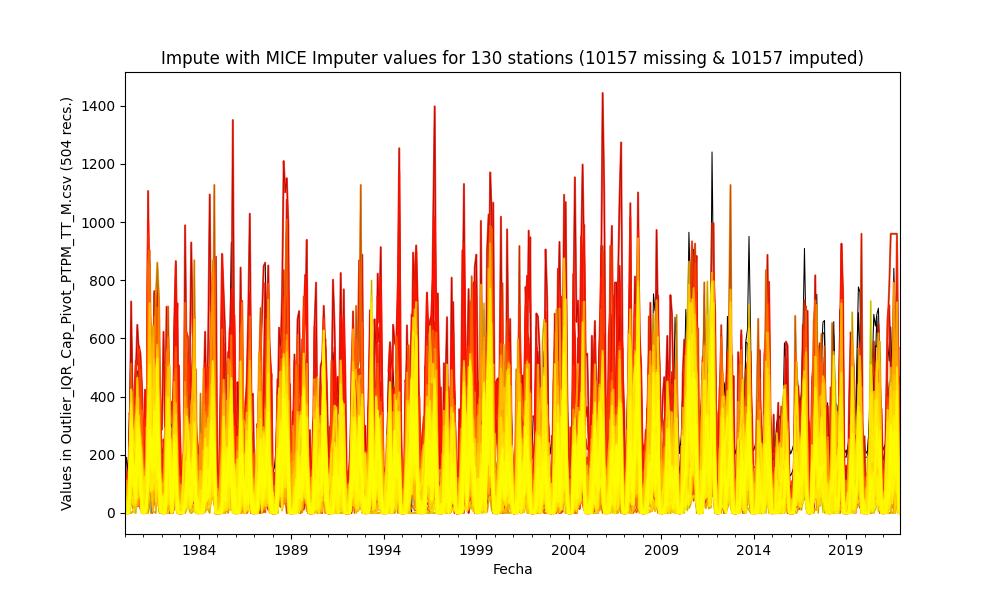
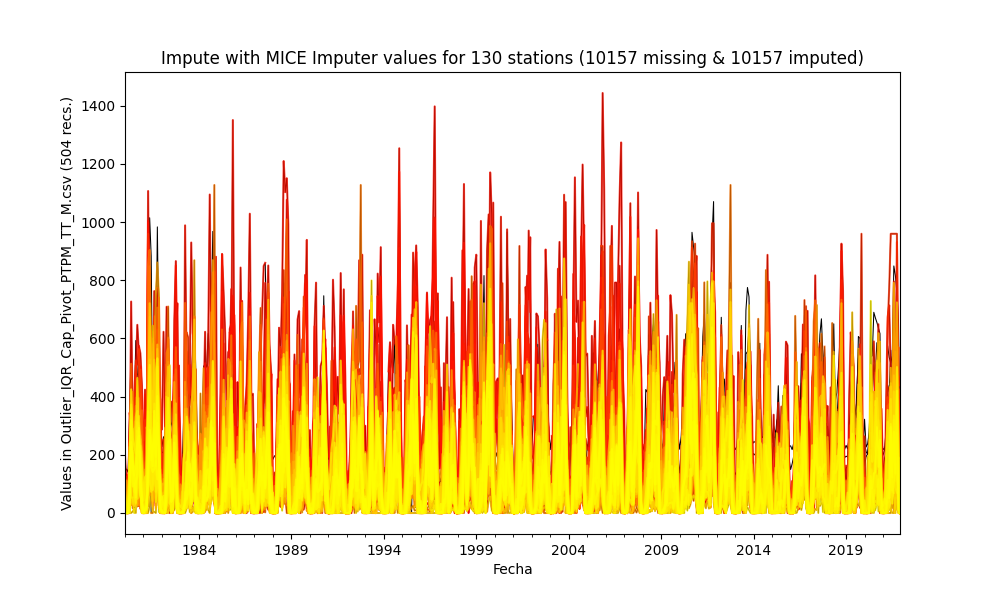
General update.

diff --git a/.src/Impute.py b/.src/Impute.py
@@ -212,7 +212,7 @@ df_isnull = pd.DataFrame(df_impute.isnull().sum(), columns=['Nulls'])
 total_imputed = total_nulls - df_isnull['Nulls'].sum()
 print_log('\n\n### Method 7 - Impute missing values with Natural Neigborns - KNN = %d Imputer from Scikit Learn' % n_neighbors +
           '\nAccording to this technique, the missing values are imputed using the natural neighbors values and the serie has been completed filled.' +
-          '\n\nImputer = %s' % imputer)
+          '\n\nImputer = %s' % str(imputer))
 impute_file = 'Impute_KNN_' + pivot_table_name
 plot_impute(df, df_impute, 'KNN Imputer', impute_file)
 print_log('General statistics table - Imputed file', center_div=True)
@@ -228,7 +228,7 @@ df_isnull = pd.DataFrame(df_impute.isnull().sum(), columns=['Nulls'])
 total_imputed = total_nulls - df_isnull['Nulls'].sum()
 print_log('\n\n### Method 8 - Impute missing values with Multivariate Imputation by Chained Equation - MICE from Scikit Learn' +
           '\nAccording to this technique, the missing values are imputed using MICE values and the serie has been completed filled.' +
-          '\n\nImputer = %s' % imputer)
+          '\n\nImputer = %s' % str(imputer))
 impute_file = 'Impute_MICE_' + pivot_table_name
 plot_impute(df, df_impute, 'MICE Imputer', impute_file)
 print_log('General statistics table - Imputed file', center_div=True)

diff --git a/.datasets/IDEAM_Impute/Impute_Outlier_IQR_Cap_Pivot_PTPM_TT_M.csv.md b/.datasets/IDEAM_Impute/Impute_Outlier_IQR_Cap_Pivot_PTPM_TT_M.csv.md
@@ -1,7 +1,7 @@
 ## Impute missing values in time series through statistical methods
 
 * Processed file: [D:/R.LTWB/.datasets/IDEAM_Outlier/Outlier_IQR_Cap_Pivot_PTPM_TT_M.csv](../IDEAM_EDA/Outlier_IQR_Cap_Pivot_PTPM_TT_M.csv)
-* Execution date: 2022-11-11 10:42:39.554892
+* Execution date: 2022-11-11 10:43:55.127235
 * Python version: 3.10.5 (tags/v3.10.5:f377153, Jun  6 2022, 16:14:13) [MSC v.1929 64 bit (AMD64)]
 * Python path: ['D:\\R.LTWB\\.src', 'D:\\R.LTWB', 'D:\\R.GISPython.wiki', 'D:\\R.GISPython', 'D:\\R.HydroTools.wiki']
 * matplotlib version: 3.6.0
@@ -1282,138 +1282,138 @@ General statistics table - Imputed file
 
 <div align="center">
 
-|          |   count |     mean |      std |   min |       25% |      50% |     75% |      max |
-|---------:|--------:|---------:|---------:|------:|----------:|---------:|--------:|---------:|
-| 15015020 |     504 |  59.4752 |  66.814  |     0 |   2.4     |  38.9    |  92.225 |  394.056 |
-| 15060050 |     504 |  87.9978 |  82.9567 |     0 |  13.9944  |  74.5    | 138.022 |  489.2   |
-| 15060070 |     504 | 104.784  |  99.1095 |     0 |  19.8426  |  85      | 156     |  580.127 |
-| 15060080 |     504 |  98.4016 |  91.3075 |     0 |  15       |  83      | 148.25  |  520.264 |
-| 15060150 |     504 |  72.1262 |  80.4786 |     0 |   8       |  46.1    | 107.375 |  383     |
-| 15065040 |     504 |  65.9492 |  50.2853 |     0 |  22.9038  |  61.4234 | 101.158 |  237.7   |
-| 16050240 |     504 | 176.784  | 111.923  |     0 |  95.0564  | 159.5    | 236.643 |  792.155 |
-| 16060010 |     504 | 304.344  | 206.676  |     0 | 146.25    | 284.5    | 426.25  | 1005     |
-| 16070010 |     504 | 410.624  | 257.239  |     0 | 214.998   | 395.5    | 574.416 | 1444     |
-| 16070020 |     504 | 406.072  | 231.133  |     0 | 210.954   | 390.538  | 555.938 | 1241.11  |
-| 16070030 |     504 | 390.866  | 212.704  |     0 | 238.147   | 362.914  | 509.507 | 1351     |
-| 16070040 |     504 | 354.911  | 203.971  |     8 | 213.346   | 349      | 480.25  | 1173     |
-| 23210020 |     504 | 157.786  | 122.823  |     0 |  57.9691  | 134.361  | 228.256 |  649     |
-| 23215050 |     504 | 234.694  | 208.514  |     0 |  78.55    | 185.1    | 333.375 | 1094.2   |
-| 23215060 |     504 | 136.414  |  83.5281 |     0 |  69.2558  | 127.978  | 185.523 |  424.301 |
-| 25020090 |     504 | 163.414  | 142.637  |     0 |  44.925   | 142.5    | 246.7   |  808.61  |
-| 25020220 |     504 | 126.068  | 101.539  |     0 |  43.45    | 111.25   | 189.725 |  534     |
-| 25020230 |     504 | 164.32   | 138.399  |     0 |  57.725   | 138.5    | 240.307 |  799.943 |
-| 25020240 |     504 | 136.626  | 120.238  |     0 |  43       | 113.5    | 194.25  |  735     |
-| 25020250 |     504 | 142.922  | 118.243  |     0 |  48.15    | 118.45   | 209.35  |  644.3   |
-| 25020260 |     504 | 222.887  | 168.752  |     0 |  90       | 208      | 319     |  996.014 |
-| 25020270 |     504 | 169.369  | 144.268  |     0 |  48       | 136.5    | 262.25  |  627     |
-| 25020280 |     504 | 126.647  | 115.953  |     0 |  35       | 103.5    | 185     |  661.486 |
-| 25020650 |     504 | 154.882  | 156.131  |     0 |  37.8375  | 120.397  | 225.107 |  959.998 |
-| 25020660 |     504 | 155.387  | 132.288  |     0 |  49.725   | 126      | 230     |  679     |
-| 25020670 |     504 | 148.519  | 127.713  |     0 |  35       | 122      | 243.4   |  727.269 |
-| 25020690 |     504 | 153.358  | 146.017  |     0 |  37       | 112      | 233.5   |  753     |
-| 25020870 |     504 | 156.395  | 134.903  |     0 |  45       | 137.65   | 233.5   |  835     |
-| 25020880 |     504 | 196.741  | 161.227  |     0 |  61.75    | 173      | 292     |  764     |
-| 25020890 |     504 | 157.924  | 127.113  |     0 |  51       | 135      | 243     |  593     |
-| 25020900 |     504 | 132.826  | 115.153  |     0 |  30       | 107      | 207.25  |  510     |
-| 25020920 |     504 | 135.117  | 150.096  |     0 |  35.1492  |  95.5    | 179.429 |  918.023 |
-| 25021040 |     504 | 161.693  | 139      |     0 |  45       | 138.5    | 245.25  |  739     |
-| 25021090 |     504 | 160.099  | 140.266  |     0 |  41.8802  | 125.45   | 243.5   |  680     |
-| 25021200 |     504 | 191.635  | 167.307  |     0 |  51       | 152.782  | 287     |  934     |
-| 25021240 |     504 | 169.907  | 147.9    |     0 |  46.875   | 141.85   | 265     |  696.6   |
-| 25021320 |     504 | 162.461  | 140.468  |     0 |  50       | 134      | 244.25  |  744     |
-| 25021380 |     504 | 170.713  | 140.479  |     0 |  54       | 144      | 265.25  |  724     |
-| 25021500 |     504 |  99.5202 |  74.2494 |     0 |  41       |  88      | 145     |  368     |
-| 25021540 |     504 | 180.438  | 144.862  |     0 |  68       | 149.5    | 265     |  721     |
-| 25021580 |     504 | 155.876  | 110.683  |     0 |  64.5406  | 139.071  | 230.239 |  495.147 |
-| 25021590 |     504 | 126.844  |  92.9725 |     0 |  51.5519  | 115.908  | 177.268 |  512.2   |
-| 25021620 |     504 | 116.184  |  88.644  |     0 |  48       | 102.95   | 161     |  534.242 |
-| 25021630 |     504 | 110.684  |  75.8747 |     0 |  51.75    | 100      | 163     |  370     |
-| 25021640 |     504 | 145.316  | 127.235  |     0 |  43.6     | 119      | 209.325 |  717     |
-| 25021650 |     504 | 131.672  | 122.796  |     0 |  35.8003  | 105.5    | 196.785 |  715.84  |
-| 25025090 |     504 | 163.663  | 133.707  |     0 |  53.3     | 136.75   | 245.05  |  609.3   |
-| 25025250 |     504 | 137.048  | 114.033  |     0 |  39.875   | 119.1    | 196.7   |  549.9   |
-| 25025300 |     504 | 109.948  |  90.8706 |     0 |  36.15    |  92.1997 | 160.703 |  459.2   |
-| 25025330 |     504 | 171.709  | 125.315  |     0 |  69.75    | 161.255  | 252.85  |  693     |
-| 28010020 |     504 |  78.906  |  77.329  |     0 |  20       |  59.43   | 120     |  478.212 |
-| 28010040 |     504 | 151.407  | 128.167  |     0 |  48.075   | 130.1    | 218.375 |  748.7   |
-| 28010070 |     504 | 115.819  | 101.988  |     0 |  35.975   |  99.7274 | 173     |  581     |
-| 28010090 |     504 |  93.7156 |  93.5602 |     0 |  10       |  74      | 141.25  |  520.861 |
-| 28010130 |     504 | 229.126  | 176.686  |     0 |  83.1673  | 209.352  | 344.25  | 1009     |
-| 28010140 |     504 | 132.383  | 120.019  |     0 |  33.8253  | 105.435  | 200.874 |  630     |
-| 28010200 |     504 |  82.6053 |  87.804  |     0 |   8.35    |  57.492  | 128.55  |  488.941 |
-| 28010280 |     504 |  70.4481 |  57.4039 |     0 |  21.6068  |  60.6847 | 111.573 |  250.857 |
-| 28010340 |     504 |  99.1833 |  91.9376 |     0 |  17       |  82.5    | 153.36  |  457     |
-| 28010360 |     504 | 170.655  | 199.936  |     0 |  21.225   | 109.5    | 251.475 | 1127.8   |
-| 28010370 |     504 | 108.736  |  94.291  |     0 |  26       |  88.5    | 171.25  |  508     |
-| 28015070 |     504 |  98.3091 |  83.996  |     0 |  28.475   |  88.05   | 150.5   |  456.1   |
-| 28020080 |     504 | 115.119  | 101.992  |     0 |  35       |  95.9519 | 168.427 |  590.828 |
-| 28020150 |     504 | 109.549  |  85.5291 |     0 |  46.8726  |  91      | 158     |  518     |
-| 28020230 |     504 | 128.153  | 110.325  |     0 |  35.75    | 112.848  | 187.336 |  675.7   |
-| 28020310 |     504 | 193.23   | 139.362  |     0 |  79.8592  | 164.014  | 285.353 |  723     |
-| 28020410 |     504 | 108.402  |  97.4839 |     0 |  30       |  88      | 157.25  |  565.7   |
-| 28020420 |     504 | 121.422  | 104.579  |     0 |  42.4112  | 102      | 180.25  |  567     |
-| 28020440 |     504 | 126.058  | 101.192  |     0 |  45       | 108.9    | 189.5   |  610.6   |
-| 28020460 |     504 | 129.275  | 108.569  |     0 |  46.7679  | 106.5    | 193.25  |  591     |
-| 28020590 |     504 | 103.404  |  88.2381 |     0 |  30.9846  |  84.3    | 152.166 |  542     |
-| 28020600 |     504 | 112.921  |  96.4095 |     0 |  35.275   |  89.5    | 171.906 |  552.088 |
-| 28025020 |     504 | 110.671  |  81.7222 |     0 |  42.075   | 104.8    | 164.45  |  421.2   |
-| 28025040 |     504 | 102.905  |  73.1101 |     0 |  43.5699  |  94.4868 | 142.742 |  360.6   |
-| 28025070 |     504 | 131.555  | 104.05   |     0 |  47.95    | 114.7    | 194.45  |  550.8   |
-| 28025080 |     504 | 124.304  |  92.6624 |     0 |  48.0377  | 111.792  | 178.135 |  496.9   |
-| 28025090 |     504 | 123.813  |  97.1388 |     0 |  45.55    | 110.5    | 186.375 |  504.6   |
-| 28030190 |     504 |  93.3151 |  86.66   |     0 |  14.475   |  82.8    | 144.55  |  450.8   |
-| 28030220 |     504 |  85.1136 |  84.1345 |     0 |  14       |  67.5182 | 131     |  497.601 |
-| 28035010 |     504 | 110.34   |  89.8485 |     0 |  31.3286  |  95.75   | 166.542 |  479.6   |
-| 28035020 |     504 |  97.0861 |  82.8342 |     0 |  22.825   |  84.7    | 150.25  |  464.2   |
-| 28035040 |     504 | 106.903  |  83.418  |     0 |  34.0189  |  98.45   | 152.95  |  425     |
-| 28040010 |     504 | 177.7    | 149.703  |     0 |  53.75    | 157.5    | 261.25  |  869.048 |
-| 28040030 |     504 | 115.822  | 120.559  |     0 |  29.5     |  90      | 158     |  681.291 |
-| 28040060 |     504 | 107.01   |  68.95   |     0 |  55.1349  |  98.3788 | 144.176 |  500     |
-| 28040070 |     504 | 111.858  |  87.9262 |     0 |  40       | 100      | 165     |  415     |
-| 28040100 |     504 | 144.27   | 107.048  |     0 |  54       | 137.5    | 205.5   |  635.172 |
-| 28040140 |     504 |  96.6251 |  85.6605 |     0 |  25       |  76.55   | 145.5   |  435     |
-| 28040150 |     504 | 115.763  |  90.4018 |     0 |  45.4314  | 107.606  | 162     |  541.15  |
-| 28040170 |     504 | 111.466  |  75.4197 |     0 |  54.734   |  98.8842 | 148.004 |  505     |
-| 28040200 |     504 |  95.7345 |  63.9878 |     0 |  42.6217  |  87.3163 | 133.392 |  374     |
-| 28040270 |     504 | 107.331  |  88.0855 |     0 |  32.75    | 100      | 157     |  512.18  |
-| 28040300 |     504 | 114.854  |  95.9311 |     0 |  41.75    |  96.5    | 162.25  |  564     |
-| 28040310 |     504 | 116.398  |  91.3421 |     0 |  43       | 101      | 168     |  521     |
-| 28040320 |     504 | 124.626  |  95.907  |     0 |  51       | 107      | 173.067 |  491     |
-| 28040350 |     504 | 110.307  |  98.2992 |     0 |  31.8     |  93.6    | 160.8   |  578     |
-| 28040360 |     504 | 124.524  |  91.8112 |     0 |  52.75    | 116.5    | 174.25  |  552.693 |
-| 28040400 |     504 | 103.094  |  78.4746 |     0 |  38.8972  |  89.839  | 145     |  398     |
-| 28045010 |     504 | 129.764  | 109.422  |     0 |  29.9668  | 112.665  | 202.899 |  502.1   |
-| 29060030 |     504 | 111.974  | 119.002  |     0 |   5.75    |  85.1    | 174.25  |  652.526 |
-| 29060040 |     504 | 118.821  | 113.825  |     0 |  27.5     |  97.75   | 171.25  |  639.993 |
-| 29060060 |     504 | 214.321  | 187.563  |     0 |  53.75    | 180      | 325     |  944     |
-| 29060070 |     504 | 198.596  | 159.032  |     0 |  61       | 179      | 306     |  927     |
-| 29060090 |     504 | 109.93   |  77.7163 |     0 |  42.75    | 107      | 168     |  382     |
-| 29060100 |     504 | 130.562  | 109.441  |     0 |  40       | 117.5    | 189     |  665     |
-| 29060120 |     504 |  30.2694 |  55.9905 |     0 |   0       |   6      |  30     |  303.921 |
-| 29060140 |     504 | 131.341  | 151.012  |     0 |   7.75    |  88      | 201     |  826.16  |
-| 29060150 |     504 | 135.61   | 132.112  |     0 |  23.5     | 103      | 219     |  737.271 |
-| 29060160 |     504 |  83.4999 | 102.563  |     0 |   0       |  43.05   | 135.95  |  564.2   |
-| 29060170 |     504 |  79.0849 |  92.4233 |     0 |   0       |  46.5    | 134.394 |  505     |
-| 29060180 |     504 | 116.603  | 148.14   |     0 |   0       |  71      | 168     |  796.306 |
-| 29060190 |     504 | 106.558  | 111.404  |     0 |  10.9886  |  82.5    | 157.951 |  643.811 |
-| 29060200 |     504 | 119.413  | 115.095  |     0 |  24.5     | 101.5    | 178.25  |  637     |
-| 29060210 |     504 |  69.8231 |  83.3452 |     0 |   1.175   |  39.2    | 108.15  |  453.599 |
-| 29060220 |     504 | 123.168  | 129.142  |     0 |  10.93    |  93.9813 | 185     |  799.53  |
-| 29060230 |     504 | 101.626  | 102.991  |     0 |   6.58432 |  77      | 161.073 |  549     |
-| 29060240 |     504 | 104.181  | 126.204  |     0 |   0       |  71.5    | 169.25  |  720.851 |
-| 29060250 |     504 |  83.3086 | 101.619  |     0 |   0       |  52.1    | 124.9   |  546.36  |
-| 29060270 |     504 |  87.0815 |  99.4834 |     0 |   0       |  56.5    | 132     |  519     |
-| 29060280 |     504 |  69.6652 |  86.9326 |     0 |   0       |  36.2    | 111.075 |  482.9   |
-| 29060290 |     504 | 117.112  | 118.166  |     0 |  10.3706  |  90.5    | 175.921 |  627     |
-| 29060310 |     504 |  78.6707 | 109.789  |     0 |   0       |  33      | 128     |  604.211 |
-| 29060330 |     504 | 127.08   | 122.511  |     0 |  18.3887  | 100.5    | 196.414 |  615     |
-| 29060340 |     504 | 191.936  | 164.087  |     0 |  58.75    | 165      | 278     |  875     |
-| 29060350 |     504 | 105.877  | 111.901  |     0 |   6.65    |  77      | 161.016 |  626.681 |
-| 29060550 |     504 |  94.8294 | 102.397  |     0 |   3.5833  |  69.5    | 152.173 |  595.759 |
-| 29060560 |     504 |  97.4454 |  94.7933 |     0 |  24.825   |  72.5    | 145.25  |  553.117 |
-| 29065010 |     504 |  91.6423 |  73.984  |     0 |  26.557   |  84.5784 | 131.817 |  366.7   |
-| 29065020 |     504 | 100.376  | 105.217  |     0 |   8.925   |  71.7443 | 157.125 |  563.1   |
-| 29065030 |     504 | 118.865  | 116.898  |     0 |  13.075   |  98.9    | 178.175 |  637.9   |
+|          |   count |     mean |      std |   min |       25% |      50% |      75% |      max |
+|---------:|--------:|---------:|---------:|------:|----------:|---------:|---------:|---------:|
+| 15015020 |     504 |  59.3535 |  67.2143 |     0 |   2.04279 |  39.1636 |  90.3187 |  394.056 |
+| 15060050 |     504 |  88.1339 |  82.9178 |     0 |  15       |  74.5    | 138.05   |  489.2   |
+| 15060070 |     504 |  98.8761 |  95.6857 |     0 |  18.575   |  85      | 142.819  |  580.127 |
+| 15060080 |     504 |  98.3996 |  91.3072 |     0 |  15       |  83      | 148.25   |  520.264 |
+| 15060150 |     504 |  72.1262 |  80.4786 |     0 |   8       |  46.1    | 107.375  |  383     |
+| 15065040 |     504 |  66.3914 |  49.959  |     0 |  24.2108  |  61.4425 |  99.6756 |  237.7   |
+| 16050240 |     504 | 176.023  | 112.86   |     0 |  90       | 160.864  | 234.786  |  792.155 |
+| 16060010 |     504 | 304.344  | 206.676  |     0 | 146.25    | 284.5    | 426.25   | 1005     |
+| 16070010 |     504 | 403.427  | 253.906  |     0 | 215.75    | 388.5    | 559.25   | 1444     |
+| 16070020 |     504 | 413.015  | 228.2    |     0 | 225.815   | 398.273  | 558.8    | 1210     |
+| 16070030 |     504 | 391.2    | 210.296  |     0 | 245.687   | 364.714  | 509.72   | 1351     |
+| 16070040 |     504 | 354.963  | 205.199  |     8 | 208.75    | 343.5    | 478.5    | 1173     |
+| 23210020 |     504 | 156.075  | 122.965  |     0 |  58.3421  | 132.448  | 227.25   |  649     |
+| 23215050 |     504 | 236.096  | 209.752  |     0 |  76.55    | 189.25   | 334.575  | 1094.2   |
+| 23215060 |     504 | 143.685  |  87.3515 |     0 |  70.3161  | 132.08   | 197.541  |  473.891 |
+| 25020090 |     504 | 163.155  | 142.486  |     0 |  44.925   | 142.5    | 246.7    |  808.61  |
+| 25020220 |     504 | 126.023  | 101.522  |     0 |  43.45    | 111.25   | 189.725  |  534     |
+| 25020230 |     504 | 163.778  | 138.122  |     0 |  55.95    | 135      | 242.164  |  799.943 |
+| 25020240 |     504 | 136.479  | 120.147  |     0 |  43       | 113.5    | 194      |  735     |
+| 25020250 |     504 | 142.931  | 118.424  |     0 |  48       | 118.45   | 209      |  644.3   |
+| 25020260 |     504 | 223.184  | 169.489  |     0 |  90       | 206      | 320      |  996.014 |
+| 25020270 |     504 | 169.208  | 144.158  |     0 |  48       | 136.5    | 262.25   |  627     |
+| 25020280 |     504 | 126.214  | 115.505  |     0 |  35       | 103      | 184.25   |  661.486 |
+| 25020650 |     504 | 155.669  | 156.234  |     0 |  39.65    | 128.437  | 231.05   |  959.998 |
+| 25020660 |     504 | 155.341  | 132.307  |     0 |  49.725   | 126      | 230      |  679     |
+| 25020670 |     504 | 148.173  | 127.625  |     0 |  35       | 121      | 241.125  |  727.269 |
+| 25020690 |     504 | 153.358  | 146.017  |     0 |  37       | 112      | 233.5    |  753     |
+| 25020870 |     504 | 155.673  | 134.784  |     0 |  45       | 136.07   | 229.75   |  835     |
+| 25020880 |     504 | 195.57   | 160.53   |     0 |  61.75    | 170.5    | 292      |  764     |
+| 25020890 |     504 | 157.879  | 127.247  |     0 |  51       | 134.5    | 246.25   |  593     |
+| 25020900 |     504 | 132.356  | 114.312  |     0 |  30       | 107      | 207      |  510     |
+| 25020920 |     504 | 136.653  | 149.952  |     0 |  40       |  97.6307 | 185.903  |  918.023 |
+| 25021040 |     504 | 161.672  | 139.014  |     0 |  45       | 138.5    | 245.25   |  739     |
+| 25021090 |     504 | 160.473  | 139.913  |     0 |  42.1592  | 127.5    | 248      |  680     |
+| 25021200 |     504 | 192.067  | 167.21   |     0 |  50.75    | 154      | 290      |  934     |
+| 25021240 |     504 | 169.907  | 147.9    |     0 |  46.875   | 141.85   | 265      |  696.6   |
+| 25021320 |     504 | 162.404  | 140.997  |     0 |  50       | 134      | 244      |  744     |
+| 25021380 |     504 | 169.793  | 139.81   |     0 |  54.75    | 141.399  | 263.5    |  724     |
+| 25021500 |     504 |  98.9573 |  74.1421 |     0 |  41       |  87      | 143.625  |  368     |
+| 25021540 |     504 | 180.649  | 145.276  |     0 |  68.75    | 147.837  | 265      |  721     |
+| 25021580 |     504 | 148.435  | 102.381  |     0 |  62.0845  | 134.622  | 215.373  |  494     |
+| 25021590 |     504 | 146.763  | 101.84   |     0 |  63.8567  | 139.103  | 212.007  |  518.146 |
+| 25021620 |     504 | 115.782  |  88.7494 |     0 |  48       | 102      | 161      |  534.242 |
+| 25021630 |     504 | 111.028  |  76.2656 |     0 |  52       | 100      | 163      |  370     |
+| 25021640 |     504 | 146.861  | 128.473  |     0 |  44.8754  | 118.05   | 216.667  |  717     |
+| 25021650 |     504 | 132.433  | 122.744  |     0 |  35       | 106      | 196.036  |  715.84  |
+| 25025090 |     504 | 162.731  | 132.461  |     0 |  53.1647  | 137.5    | 244.925  |  609.3   |
+| 25025250 |     504 | 138.002  | 115.228  |     0 |  39.6418  | 119.9    | 200.008  |  549.9   |
+| 25025300 |     504 | 110.028  |  91.0093 |     0 |  36.15    |  90.6    | 162.5    |  459.2   |
+| 25025330 |     504 | 171.583  | 123.911  |     0 |  73.3217  | 159.329  | 253      |  693     |
+| 28010020 |     504 |  78.8378 |  76.1734 |     0 |  20       |  62.2553 | 118      |  478.212 |
+| 28010040 |     504 | 151.49   | 128.161  |     0 |  48.075   | 130.1    | 218.375  |  748.7   |
+| 28010070 |     504 | 114.618  | 102.321  |     0 |  35.45    |  94.1    | 171.901  |  581     |
+| 28010090 |     504 |  92.4201 |  92.4795 |     0 |  10       |  72.5    | 138      |  520.861 |
+| 28010130 |     504 | 232.803  | 160.218  |     0 | 100.305   | 218.538  | 325.046  | 1009     |
+| 28010140 |     504 | 141.636  | 120.21   |     0 |  42.9034  | 120.292  | 209.989  |  630     |
+| 28010200 |     504 |  82.7015 |  88.0547 |     0 |   7.375   |  57.25   | 131.225  |  488.941 |
+| 28010280 |     504 |  64.685  |  46.1788 |     0 |  29.1016  |  59.8446 |  91.3315 |  219.619 |
+| 28010340 |     504 |  99.3773 |  91.8429 |     0 |  19.5     |  82.5    | 153.25   |  457     |
+| 28010360 |     504 | 169.764  | 199.658  |     0 |  22.9591  | 109      | 246.75   | 1127.8   |
+| 28010370 |     504 | 108.987  |  94.4922 |     0 |  26       |  88.5    | 173      |  508     |
+| 28015070 |     504 |  98.1872 |  83.965  |     0 |  28.475   |  88.05   | 150.5    |  456.1   |
+| 28020080 |     504 | 115.074  | 101.786  |     0 |  35       |  95.5    | 171      |  590.828 |
+| 28020150 |     504 | 108.249  |  84.9313 |     0 |  45.626   |  94.4646 | 156.25   |  518     |
+| 28020230 |     504 | 132.783  | 108.811  |     0 |  42       | 120.066  | 193.733  |  675.7   |
+| 28020310 |     504 | 183.143  | 131.477  |     0 |  78.1073  | 157.985  | 253.094  |  723     |
+| 28020410 |     504 | 107.95   |  97.2598 |     0 |  30.0898  |  86.5    | 155.25   |  565.7   |
+| 28020420 |     504 | 120.162  | 104.378  |     0 |  36.75    | 102      | 175      |  567     |
+| 28020440 |     504 | 126.138  | 101.365  |     0 |  45       | 108.946  | 191      |  610.6   |
+| 28020460 |     504 | 128.776  | 108.156  |     0 |  47       | 105      | 192.25   |  591     |
+| 28020590 |     504 | 104.65   |  88.3249 |     0 |  31.8474  |  86.5    | 155.49   |  542     |
+| 28020600 |     504 | 113.462  |  96.1181 |     0 |  36       |  91      | 172      |  552.088 |
+| 28025020 |     504 | 110.544  |  81.599  |     0 |  42.325   | 104.8    | 163.475  |  421.2   |
+| 28025040 |     504 | 102.612  |  74.529  |     0 |  41.875   |  90.3451 | 147.21   |  360.6   |
+| 28025070 |     504 | 131.555  | 104.05   |     0 |  47.95    | 114.7    | 194.45   |  550.8   |
+| 28025080 |     504 | 124.595  |  91.1914 |     0 |  49.45    | 114.545  | 179.358  |  496.9   |
+| 28025090 |     504 | 123.889  |  97.1725 |     0 |  45.55    | 110.5    | 187.725  |  504.6   |
+| 28030190 |     504 |  93.3151 |  86.66   |     0 |  14.475   |  82.8    | 144.55   |  450.8   |
+| 28030220 |     504 |  85.4167 |  85.7472 |     0 |  12       |  65      | 133.174  |  497.601 |
+| 28035010 |     504 | 110.32   |  89.9745 |     0 |  31.75    |  95.5612 | 167.982  |  479.6   |
+| 28035020 |     504 |  96.795  |  83.2538 |     0 |  21.625   |  84.25   | 149.975  |  464.2   |
+| 28035040 |     504 | 106.994  |  83.5573 |     0 |  34       |  98.05   | 154.225  |  425     |
+| 28040010 |     504 | 177.7    | 149.703  |     0 |  53.75    | 157.5    | 261.25   |  869.048 |
+| 28040030 |     504 | 116.011  | 120.684  |     0 |  29.5     |  90      | 158.25   |  681.291 |
+| 28040060 |     504 | 112.682  |  72.6912 |     0 |  55.1818  | 102.719  | 156.174  |  500     |
+| 28040070 |     504 | 112.16   |  88.0262 |     0 |  40       | 100      | 165      |  415     |
+| 28040100 |     504 | 144.071  | 107.002  |     0 |  54       | 136.894  | 205      |  635.172 |
+| 28040140 |     504 |  96.8923 |  85.9236 |     0 |  25       |  76.9    | 145.5    |  435     |
+| 28040150 |     504 | 115.185  |  90.076  |     0 |  45.5392  | 107      | 162      |  541.15  |
+| 28040170 |     504 |  97.3682 |  77.4688 |     0 |  40.7199  |  79.0561 | 129.597  |  505     |
+| 28040200 |     504 | 100.503  |  66.2689 |     0 |  46       |  94.561  | 146.96   |  374     |
+| 28040270 |     504 | 107.168  |  88.2429 |     0 |  32       |  99      | 158.25   |  512.18  |
+| 28040300 |     504 | 114.885  |  96.0417 |     0 |  41.75    |  97      | 162      |  564     |
+| 28040310 |     504 | 117.989  |  92.7934 |     0 |  42.5996  | 108.669  | 169.25   |  521     |
+| 28040320 |     504 | 124.562  |  95.9801 |     0 |  51       | 107      | 173.25   |  491     |
+| 28040350 |     504 | 110.307  |  98.2992 |     0 |  31.8     |  93.6    | 160.8    |  578     |
+| 28040360 |     504 | 124.52   |  91.804  |     0 |  52.75    | 116.5    | 174.25   |  552.693 |
+| 28040400 |     504 | 103.383  |  78.6547 |     0 |  40       |  90.9362 | 146.185  |  398     |
+| 28045010 |     504 | 123.695  | 104.25   |     0 |  34.5417  | 107.749  | 191.239  |  502.1   |
+| 29060030 |     504 | 111.95   | 119.004  |     0 |   5.75    |  85.1    | 174.25   |  652.526 |
+| 29060040 |     504 | 118.847  | 113.949  |     0 |  27.5     |  96.5    | 172.25   |  639.993 |
+| 29060060 |     504 | 214.334  | 187.347  |     0 |  53.75    | 181.5    | 324      |  944     |
+| 29060070 |     504 | 198.624  | 159.01   |     0 |  61       | 179      | 306      |  927     |
+| 29060090 |     504 | 109.736  |  77.604  |     0 |  42.75    | 107      | 168      |  382     |
+| 29060100 |     504 | 130.562  | 109.441  |     0 |  40       | 117.5    | 189      |  665     |
+| 29060120 |     504 |  30.2694 |  55.9905 |     0 |   0       |   6      |  30      |  303.921 |
+| 29060140 |     504 | 131.293  | 150.995  |     0 |   7.75    |  88      | 201      |  826.16  |
+| 29060150 |     504 | 135.168  | 131.529  |     0 |  24.75    | 103      | 218.132  |  737.271 |
+| 29060160 |     504 |  83.4446 | 102.405  |     0 |   0       |  43.05   | 135.95   |  564.2   |
+| 29060170 |     504 |  78.9935 |  92.391  |     0 |   0       |  46.5    | 134.075  |  505     |
+| 29060180 |     504 | 116.814  | 148.28   |     0 |   0       |  71      | 168      |  796.306 |
+| 29060190 |     504 | 107.618  | 111.962  |     0 |  12       |  80.6015 | 159.5    |  643.811 |
+| 29060200 |     504 | 119.906  | 114.538  |     0 |  22.75    | 100.5    | 181      |  637     |
+| 29060210 |     504 |  69.8433 |  83.3174 |     0 |   1.175   |  39.2    | 108.15   |  453.599 |
+| 29060220 |     504 | 130.259  | 136.557  |     0 |  15.7621  |  96.1412 | 195.17   |  799.53  |
+| 29060230 |     504 | 105.76   | 104.851  |     0 |   9       |  79      | 165.945  |  549     |
+| 29060240 |     504 | 103.866  | 126.48   |     0 |   0       |  68.7165 | 172.025  |  720.851 |
+| 29060250 |     504 |  83.0858 | 101.503  |     0 |   0       |  52.1    | 122.95   |  546.36  |
+| 29060270 |     504 |  87.1313 |  99.4974 |     0 |   0       |  56.5    | 132      |  519     |
+| 29060280 |     504 |  70.1476 |  87.0052 |     0 |   0       |  36.6    | 111.075  |  482.9   |
+| 29060290 |     504 | 111.464  | 108.373  |     0 |  12       |  92.233  | 169.936  |  627     |
+| 29060310 |     504 |  78.6707 | 109.789  |     0 |   0       |  33      | 128      |  604.211 |
+| 29060330 |     504 | 125.214  | 122.1    |     0 |  17.2682  | 104.653  | 192.733  |  615     |
+| 29060340 |     504 | 192.234  | 164.162  |     0 |  58.75    | 166.5    | 279      |  875     |
+| 29060350 |     504 | 105.243  | 112.224  |     0 |   7       |  75      | 166.233  |  626.681 |
+| 29060550 |     504 |  95.3677 |  99.796  |     0 |   7.69022 |  72      | 150.988  |  595.759 |
+| 29060560 |     504 |  98.3418 |  95.2414 |     0 |  24.225   |  73      | 150      |  553.117 |
+| 29065010 |     504 | 102.58   |  92.0985 |     0 |  19.7248  |  84.1819 | 163.037  |  450.877 |
+| 29065020 |     504 | 100.274  | 105.161  |     0 |   8.65    |  72.1    | 157.125  |  563.1   |
+| 29065030 |     504 | 119.237  | 116.451  |     0 |  13.979   | 100.373  | 178.175  |  637.9   |
 
 </div>
 
